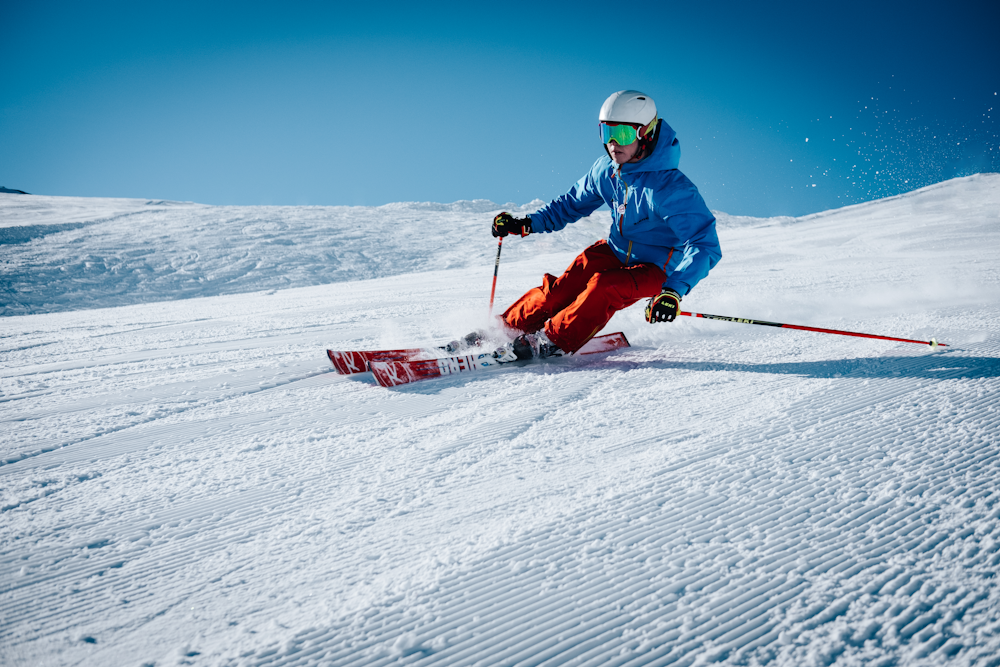
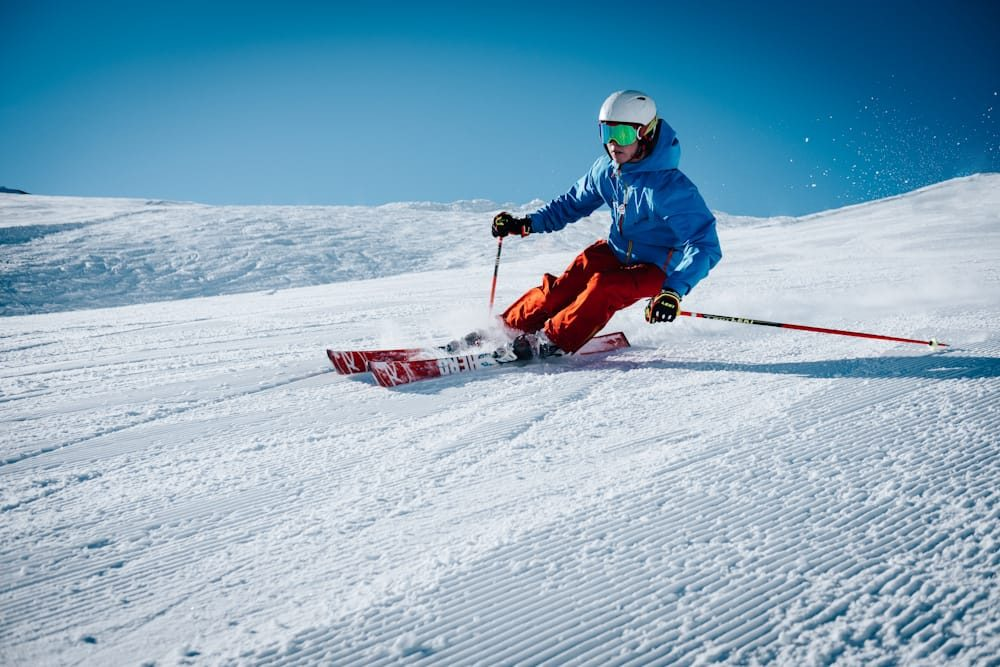
Use local card images with people-aware cropping (#17)
- service and portfolio cards now load from assets/cards/ instead of Unsplash
  hotlinks, each with object-position tuned so the rider is in frame
- portfolio 'Фото-туры' swapped from a summer trekking shot to a ski-tour one
- re-encoded pf-resort as a real baseline JPEG (was a 1MB PNG named .jpg)
- dropped onerror=this.remove(), which permanently killed a tile on any
  transient decode failure

Claude-Session: https://claude.ai/code/session_01RYipJBYM9DvBmjvSssacwk

diff --git a/index.html b/index.html
@@ -559,19 +559,9 @@
     <div class="services-row reveal-group">
       <div class="s-card door-left">
         <img class="s-img" alt="" loading="lazy" decoding="async"
-          src="https://images.unsplash.com/photo-1529774848151-535301a504f7?auto=format&fit=crop&w=600&q=75"
-          srcset="
-            https://images.unsplash.com/photo-1529774848151-535301a504f7?auto=format&fit=crop&w=400&q=75 400w,
-            https://images.unsplash.com/photo-1529774848151-535301a504f7?auto=format&fit=crop&w=700&q=75 700w,
-            https://images.unsplash.com/photo-1529774848151-535301a504f7?auto=format&fit=crop&w=1100&q=75 1100w"
-          sizes="(max-width: 860px) 100vw, 22vw">
-<img class="s-img-bright" alt="" loading="lazy" decoding="async"
-          src="https://images.unsplash.com/photo-1529774848151-535301a504f7?auto=format&fit=crop&w=600&q=75"
-          srcset="
-            https://images.unsplash.com/photo-1529774848151-535301a504f7?auto=format&fit=crop&w=400&q=75 400w,
-            https://images.unsplash.com/photo-1529774848151-535301a504f7?auto=format&fit=crop&w=700&q=75 700w,
-            https://images.unsplash.com/photo-1529774848151-535301a504f7?auto=format&fit=crop&w=1100&q=75 1100w"
-          sizes="(max-width: 860px) 100vw, 22vw">
+          src="assets/cards/stories.jpg" style="object-position:52% 42%">
+        <img class="s-img-bright" alt="" loading="lazy" decoding="async"
+          src="assets/cards/stories.jpg" style="object-position:52% 42%">
         <div class="s-card-body">
           <span class="s-num">01</span>
           <h3>Личные сторис</h3>
@@ -580,19 +570,9 @@
       </div>
       <div class="s-card door-left">
         <img class="s-img" alt="" loading="lazy" decoding="async"
-          src="https://images.unsplash.com/photo-1551524559-8af4e6624178?auto=format&fit=crop&w=600&q=75"
-          srcset="
-            https://images.unsplash.com/photo-1551524559-8af4e6624178?auto=format&fit=crop&w=400&q=75 400w,
-            https://images.unsplash.com/photo-1551524559-8af4e6624178?auto=format&fit=crop&w=700&q=75 700w,
-            https://images.unsplash.com/photo-1551524559-8af4e6624178?auto=format&fit=crop&w=1100&q=75 1100w"
-          sizes="(max-width: 860px) 100vw, 22vw">
-<img class="s-img-bright" alt="" loading="lazy" decoding="async"
-          src="https://images.unsplash.com/photo-1551524559-8af4e6624178?auto=format&fit=crop&w=600&q=75"
-          srcset="
-            https://images.unsplash.com/photo-1551524559-8af4e6624178?auto=format&fit=crop&w=400&q=75 400w,
-            https://images.unsplash.com/photo-1551524559-8af4e6624178?auto=format&fit=crop&w=700&q=75 700w,
-            https://images.unsplash.com/photo-1551524559-8af4e6624178?auto=format&fit=crop&w=1100&q=75 1100w"
-          sizes="(max-width: 860px) 100vw, 22vw">
+          src="assets/cards/school.jpg" style="object-position:80% 30%">
+        <img class="s-img-bright" alt="" loading="lazy" decoding="async"
+          src="assets/cards/school.jpg" style="object-position:80% 30%">
         <div class="s-card-body">
           <span class="s-num">02</span>
           <h3>Школы и инструкторы</h3>
@@ -601,19 +581,9 @@
       </div>
       <div class="s-card featured door-split">
         <img class="s-img" alt="" loading="lazy" decoding="async"
-          src="https://images.unsplash.com/photo-1616429553002-faf23468952d?auto=format&fit=crop&w=700&q=75"
-          srcset="
-            https://images.unsplash.com/photo-1616429553002-faf23468952d?auto=format&fit=crop&w=500&q=75 500w,
-            https://images.unsplash.com/photo-1616429553002-faf23468952d?auto=format&fit=crop&w=900&q=75 900w,
-            https://images.unsplash.com/photo-1616429553002-faf23468952d?auto=format&fit=crop&w=1400&q=75 1400w"
-          sizes="(max-width: 860px) 100vw, 50vw">
-<img class="s-img-bright" alt="" loading="lazy" decoding="async"
-          src="https://images.unsplash.com/photo-1616429553002-faf23468952d?auto=format&fit=crop&w=700&q=75"
-          srcset="
-            https://images.unsplash.com/photo-1616429553002-faf23468952d?auto=format&fit=crop&w=500&q=75 500w,
-            https://images.unsplash.com/photo-1616429553002-faf23468952d?auto=format&fit=crop&w=900&q=75 900w,
-            https://images.unsplash.com/photo-1616429553002-faf23468952d?auto=format&fit=crop&w=1400&q=75 1400w"
-          sizes="(max-width: 860px) 100vw, 50vw">
+          src="assets/cards/resort.jpg" style="object-position:72% 62%">
+        <img class="s-img-bright" alt="" loading="lazy" decoding="async"
+          src="assets/cards/resort.jpg" style="object-position:72% 62%">
         <div class="s-card-body">
           <span class="s-num">03</span>
           <h3>Курорты и бренды</h3>
@@ -622,19 +592,9 @@
       </div>
       <div class="s-card door-right">
         <img class="s-img" alt="" loading="lazy" decoding="async"
-          src="https://images.unsplash.com/photo-1646297226339-febd1eaee532?auto=format&fit=crop&w=600&q=75"
-          srcset="
-            https://images.unsplash.com/photo-1646297226339-febd1eaee532?auto=format&fit=crop&w=400&q=75 400w,
-            https://images.unsplash.com/photo-1646297226339-febd1eaee532?auto=format&fit=crop&w=700&q=75 700w,
-            https://images.unsplash.com/photo-1646297226339-febd1eaee532?auto=format&fit=crop&w=1100&q=75 1100w"
-          sizes="(max-width: 860px) 100vw, 22vw">
-<img class="s-img-bright" alt="" loading="lazy" decoding="async"
-          src="https://images.unsplash.com/photo-1646297226339-febd1eaee532?auto=format&fit=crop&w=600&q=75"
-          srcset="
-            https://images.unsplash.com/photo-1646297226339-febd1eaee532?auto=format&fit=crop&w=400&q=75 400w,
-            https://images.unsplash.com/photo-1646297226339-febd1eaee532?auto=format&fit=crop&w=700&q=75 700w,
-            https://images.unsplash.com/photo-1646297226339-febd1eaee532?auto=format&fit=crop&w=1100&q=75 1100w"
-          sizes="(max-width: 860px) 100vw, 22vw">
+          src="assets/cards/freeride.jpg" style="object-position:52% 45%">
+        <img class="s-img-bright" alt="" loading="lazy" decoding="async"
+          src="assets/cards/freeride.jpg" style="object-position:52% 45%">
         <div class="s-card-body">
           <span class="s-num">04</span>
           <h3>Фрирайд-сопровождение</h3>
@@ -643,19 +603,9 @@
       </div>
       <div class="s-card door-right">
         <img class="s-img" alt="" loading="lazy" decoding="async"
-          src="https://images.unsplash.com/photo-1582048551464-8b1d42010271?auto=format&fit=crop&w=600&q=75"
-          srcset="
-            https://images.unsplash.com/photo-1582048551464-8b1d42010271?auto=format&fit=crop&w=400&q=75 400w,
-            https://images.unsplash.com/photo-1582048551464-8b1d42010271?auto=format&fit=crop&w=700&q=75 700w,
-            https://images.unsplash.com/photo-1582048551464-8b1d42010271?auto=format&fit=crop&w=1100&q=75 1100w"
-          sizes="(max-width: 860px) 100vw, 22vw">
-<img class="s-img-bright" alt="" loading="lazy" decoding="async"
-          src="https://images.unsplash.com/photo-1582048551464-8b1d42010271?auto=format&fit=crop&w=600&q=75"
-          srcset="
-            https://images.unsplash.com/photo-1582048551464-8b1d42010271?auto=format&fit=crop&w=400&q=75 400w,
-            https://images.unsplash.com/photo-1582048551464-8b1d42010271?auto=format&fit=crop&w=700&q=75 700w,
-            https://images.unsplash.com/photo-1582048551464-8b1d42010271?auto=format&fit=crop&w=1100&q=75 1100w"
-          sizes="(max-width: 860px) 100vw, 22vw">
+          src="assets/cards/events.jpg" style="object-position:56% 58%">
+        <img class="s-img-bright" alt="" loading="lazy" decoding="async"
+          src="assets/cards/events.jpg" style="object-position:56% 58%">
         <div class="s-card-body">
           <span class="s-num">05</span>
           <h3>Соревнования и события</h3>
@@ -681,33 +631,33 @@
     </div>
     <div class="pf-grid reveal-group">
       <div class="pf-tile">
-        <img class="pf-img" alt="Фрирайд: спуск вне трассы" loading="lazy" decoding="async" onerror="this.remove()"
-          src="https://images.unsplash.com/photo-1646297226339-febd1eaee532?auto=format&fit=crop&w=800&q=75">
+        <img class="pf-img" alt="Фрирайд: спуск вне трассы" loading="lazy" decoding="async"
+          src="assets/cards/freeride.jpg" style="object-position:52% 44%">
         <span class="pf-cat">Фрирайд</span><span class="pf-soon">пухляк, лес и внетрассовые линии</span>
       </div>
       <div class="pf-tile">
-        <img class="pf-img" alt="Вертикальные ролики для соцсетей" loading="lazy" decoding="async" onerror="this.remove()"
-          src="https://images.unsplash.com/photo-1529774848151-535301a504f7?auto=format&fit=crop&w=800&q=75">
+        <img class="pf-img" alt="Вертикальные ролики для соцсетей" loading="lazy" decoding="async"
+          src="assets/cards/stories.jpg" style="object-position:52% 40%">
         <span class="pf-cat">Reels / сторис</span><span class="pf-soon">вертикалки под музыку для соцсетей</span>
       </div>
       <div class="pf-tile">
-        <img class="pf-img" alt="Имиджевая съёмка курорта" loading="lazy" decoding="async" onerror="this.remove()"
-          src="https://images.unsplash.com/photo-1551698618-1dfe5d97d256?auto=format&fit=crop&w=800&q=75">
+        <img class="pf-img" alt="Имиджевая съёмка курорта" loading="lazy" decoding="async"
+          src="assets/cards/pf-resort.jpg" style="object-position:62% 36%">
         <span class="pf-cat">Курорт-реклама</span><span class="pf-soon">имиджевые кадры трасс и подъёмников</span>
       </div>
       <div class="pf-tile">
-        <img class="pf-img" alt="Репортаж с соревнований" loading="lazy" decoding="async" onerror="this.remove()"
-          src="https://images.unsplash.com/photo-1582048551464-8b1d42010271?auto=format&fit=crop&w=800&q=75">
+        <img class="pf-img" alt="Репортаж с соревнований" loading="lazy" decoding="async"
+          src="assets/cards/events.jpg" style="object-position:56% 56%">
         <span class="pf-cat">Соревнования</span><span class="pf-soon">старты, финиши и эмоции подиума</span>
       </div>
       <div class="pf-tile">
-        <img class="pf-img" alt="Фото-тур в горах" loading="lazy" decoding="async" onerror="this.remove()"
-          src="https://images.unsplash.com/photo-1551632811-561732d1e306?auto=format&fit=crop&w=800&q=75">
-        <span class="pf-cat">Фото-туры</span><span class="pf-soon">бэккантри-походы с камерой</span>
+        <img class="pf-img" alt="Ски-тур: спуск с вершины" loading="lazy" decoding="async"
+          src="assets/cards/resort.jpg" style="object-position:70% 60%">
+        <span class="pf-cat">Фото-туры</span><span class="pf-soon">бэккантри и спуски с вершин</span>
       </div>
       <div class="pf-tile">
-        <img class="pf-img" alt="Бренд-съёмка экипировки" loading="lazy" decoding="async" onerror="this.remove()"
-          src="https://images.unsplash.com/photo-1616429553002-faf23468952d?auto=format&fit=crop&w=800&q=75">
+        <img class="pf-img" alt="Бренд-съёмка экипировки" loading="lazy" decoding="async"
+          src="assets/cards/school.jpg" style="object-position:78% 30%">
         <span class="pf-cat">Бренд-съёмки</span><span class="pf-soon">экипировка и продукт в действии</span>
       </div>
     </div>
